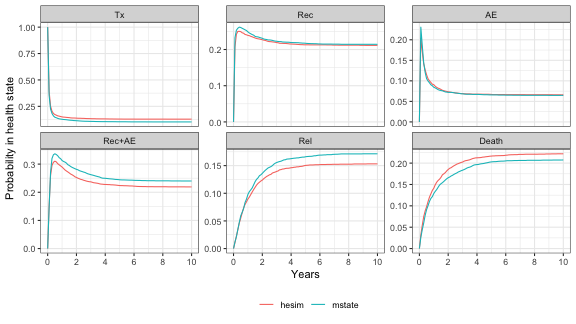
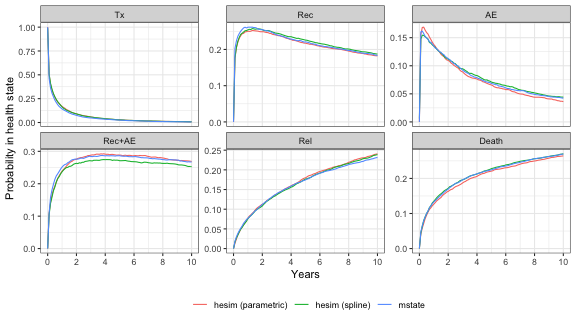
Update benchmarks to include simulations of survival splines

diff --git a/docs/dev/articles/benchmarks.html b/docs/dev/articles/benchmarks.html
@@ -124,7 +124,7 @@
     <div class="page-header toc-ignore">
       <h1 data-toc-skip>Benchmarks</h1>
             
-            <h4 class="date">2021-01-20</h4>
+            <h4 class="date">2021-03-25</h4>
       
       <small class="dont-index">Source: <a href="https://github.com/hesim-dev/hesim/blob/master/vignettes/benchmarks.Rmd"><code>vignettes/benchmarks.Rmd</code></a></small>
       <div class="hidden name"><code>benchmarks.Rmd</code></div>
@@ -152,9 +152,9 @@
 <h1 class="hasAnchor">
 <a href="#semi-markov-models" class="anchor"></a>Semi-Markov models</h1>
 <p><a href="https://doi.org/10.1177/0272989X16651869">Williams et al. (2016)</a> adapted the <a href="https://www.jstatsoft.org/article/view/v038i07"><code>mstate</code></a> package to simulate parametric semi-Markov multi-state models. Here, we use simulate a 6-state model for leukemia patients following bone marrow transplantation with both <code>hesim</code> and <code>mstate</code>. Since a semi-Markov process is assumed, an individual-level simulation is used. Additional details were previously provided in a <a href="https://devinincerti.com/2019/01/01/sim-mstate.html">blog post</a>.</p>
-<p>We fit a Gompertz model, but computational performance does not differ substantially across parametric distributions. When using <code>mstate</code>, multi-state models are simulated using a cumulative hazard function estimated on a discrete grid, so a time step must be defined. We used a step size of 1/52 (i.e., one week) so that each time step was a week long. This produced reasonably accurate state probability estimates that were similar to those performed in continuous time with <code>hesim</code> (see plot below).</p>
+<p>We fit a parametric Weibull model, but note that computational performance does not differ substantially across parametric distributions. We also checked the performance of a spline model, which can be used to model very flexible baseline hazards, but is slower because the quantile function must be computed numerically and <code>hesim</code>, by default, uses inverse transform sampling to randomy sample from survival splines. To facilitate direct comparison with the Weibull model, we used a parameterization of the spline equivalent to a Weibull distribution. When using <code>mstate</code>, multi-state models are simulated using a cumulative hazard function estimated on a discrete grid, so a time step must be defined. We used a step size of 1/52 (i.e., one week) so that each time step was a week long. This produced reasonably accurate state probability estimates that were similar to those performed in continuous time with <code>hesim</code> (see plot below).</p>
 <div class="sourceCode" id="cb2"><pre class="downlit sourceCode r">
-<code class="sourceCode R"><span class="va">DIST</span> <span class="op">=</span> <span class="st">"gompertz"</span>
+<code class="sourceCode R"><span class="va">DIST</span> <span class="op">=</span> <span class="st">"weibull"</span>
 <span class="va">STEP</span> <span class="op">=</span> <span class="fl">1</span><span class="op">/</span><span class="fl">52</span></code></pre></div>
 <p>We began by simulating “deterministic” models assuming no parameter uncertainty. Comparisons of state probabilities simulated using 5,000 patients with <code>hesim</code> and <code>mstate</code> are shown in the plot.</p>
 <div class="sourceCode" id="cb3"><pre class="downlit sourceCode r">
@@ -164,7 +164,7 @@
                                step <span class="op">=</span> <span class="va">STEP</span><span class="op">)</span>
 <span class="va">smb2</span><span class="op">$</span><span class="va">plot</span></code></pre></div>
 <p><img src="benchmarks_figs/SemiMarkov-1.png"></p>
-<p>We then performed probabilistic sensitivity analysis (PSA) and varied both the number of patients simulated and the number of draws of the parameters. Run times are reported in the table below. <code>hesim</code> is considerably faster and the speed advantage is most notable when a PSA is performed.</p>
+<p>We then performed probabilistic sensitivity analysis (PSA) and varied both the number of patients simulated and the number of draws of the parameters. Run times are reported in the table below. <code>hesim</code> is considerably faster and the speed advantage is most notable when a PSA is performed. Although slower than the Weibull model, the spline model is still fast, meaning that flexible baseline hazards can be modeled if required with only a small negative impact on performance.</p>
 <div class="sourceCode" id="cb4"><pre class="downlit sourceCode r">
 <code class="sourceCode R"><span class="va">smb</span> <span class="op">&lt;-</span> <span class="fu"><a href="https://rdrr.io/r/base/list.html">list</a></span><span class="op">(</span>
   <span class="va">smb1</span>,
@@ -183,7 +183,7 @@
 <tr>
 <th style="empty-cells: hide;border-bottom:hidden;" colspan="2">
 </th>
-<th style="border-bottom:hidden;padding-bottom:0; padding-left:3px;padding-right:3px;text-align: center; " colspan="2">
+<th style="border-bottom:hidden;padding-bottom:0; padding-left:3px;padding-right:3px;text-align: center; " colspan="3">
 <div style="border-bottom: 1px solid #ddd; padding-bottom: 5px; ">
 Run time
 </div>
@@ -200,7 +200,10 @@ Run time
 mstate
 </th>
 <th style="text-align:left;">
-hesim
+hesim (parametric)
+</th>
+<th style="text-align:left;">
+hesim (spline)
 </th>
 </tr>
 </thead>
@@ -213,10 +216,13 @@ hesim
 1
 </td>
 <td style="text-align:left;">
-9.4 seconds
+11 seconds
 </td>
 <td style="text-align:left;">
-0.084 seconds
+0.062 seconds
+</td>
+<td style="text-align:left;">
+0.061 seconds
 </td>
 </tr>
 <tr>
@@ -227,10 +233,13 @@ hesim
 1
 </td>
 <td style="text-align:left;">
-52 seconds
+1.4 minutes
 </td>
 <td style="text-align:left;">
-0.071 seconds
+0.11 seconds
+</td>
+<td style="text-align:left;">
+0.24 seconds
 </td>
 </tr>
 <tr>
@@ -244,7 +253,10 @@ hesim
 22 minutes
 </td>
 <td style="text-align:left;">
-0.31 seconds
+0.63 seconds
+</td>
+<td style="text-align:left;">
+2.9 seconds
 </td>
 </tr>
 <tr>
@@ -255,10 +267,13 @@ hesim
 1000
 </td>
 <td style="text-align:left;">
-3.1 hours
+3.6 hours
 </td>
 <td style="text-align:left;">
-2.8 seconds
+6 seconds
+</td>
+<td style="text-align:left;">
+29 seconds
 </td>
 </tr>
 </tbody>
@@ -326,13 +341,13 @@ hesim (individual)
 1000
 </td>
 <td style="text-align:left;">
-1.4 seconds
+1.5 seconds
 </td>
 <td style="text-align:left;">
-0.098 seconds
+0.097 seconds
 </td>
 <td style="text-align:left;">
-0.16 seconds
+0.21 seconds
 </td>
 </tr>
 <tr>
@@ -349,10 +364,10 @@ hesim (individual)
 12 seconds
 </td>
 <td style="text-align:left;">
-0.13 seconds
+0.12 seconds
 </td>
 <td style="text-align:left;">
-0.68 seconds
+1.1 seconds
 </td>
 </tr>
 <tr>
@@ -366,13 +381,13 @@ hesim (individual)
 1000
 </td>
 <td style="text-align:left;">
-1.9 minutes
+2 minutes
 </td>
 <td style="text-align:left;">
-0.88 seconds
+1.2 seconds
 </td>
 <td style="text-align:left;">
-7.4 seconds
+11 seconds
 </td>
 </tr>
 </tbody>
@@ -398,7 +413,7 @@ hesim (individual)
 ## [1] stats     graphics  grDevices utils     datasets  methods   base     
 ## 
 ## other attached packages:
-## [1] mstate_0.3.1      kableExtra_1.2.1  hesim_0.4.2.9999  heemod_0.13.0    
+## [1] mstate_0.3.1      kableExtra_1.2.1  hesim_0.5.0.9999  heemod_0.13.0    
 ## [5] ggplot2_3.3.3     flexsurv_1.1.1    survival_3.2-7    data.table_1.13.6
 ## [9] knitr_1.30       
 ## 
